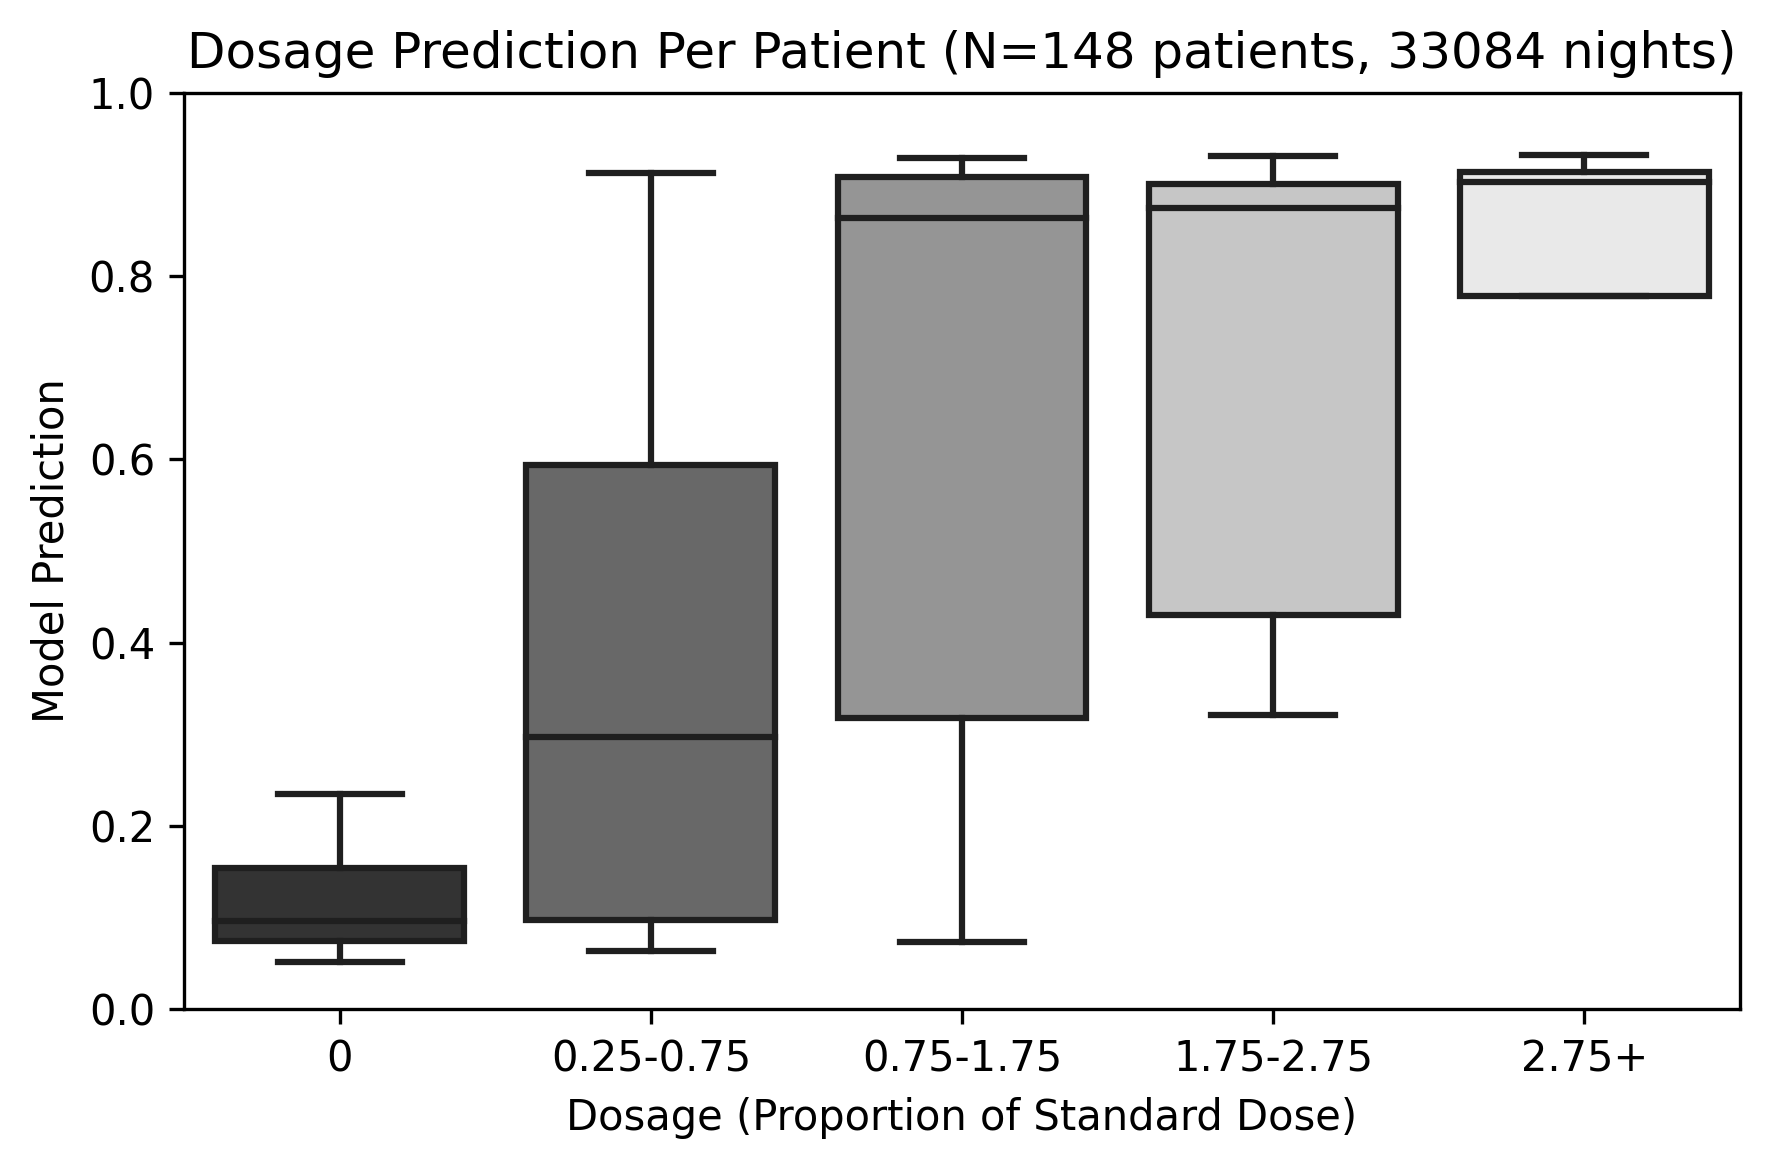
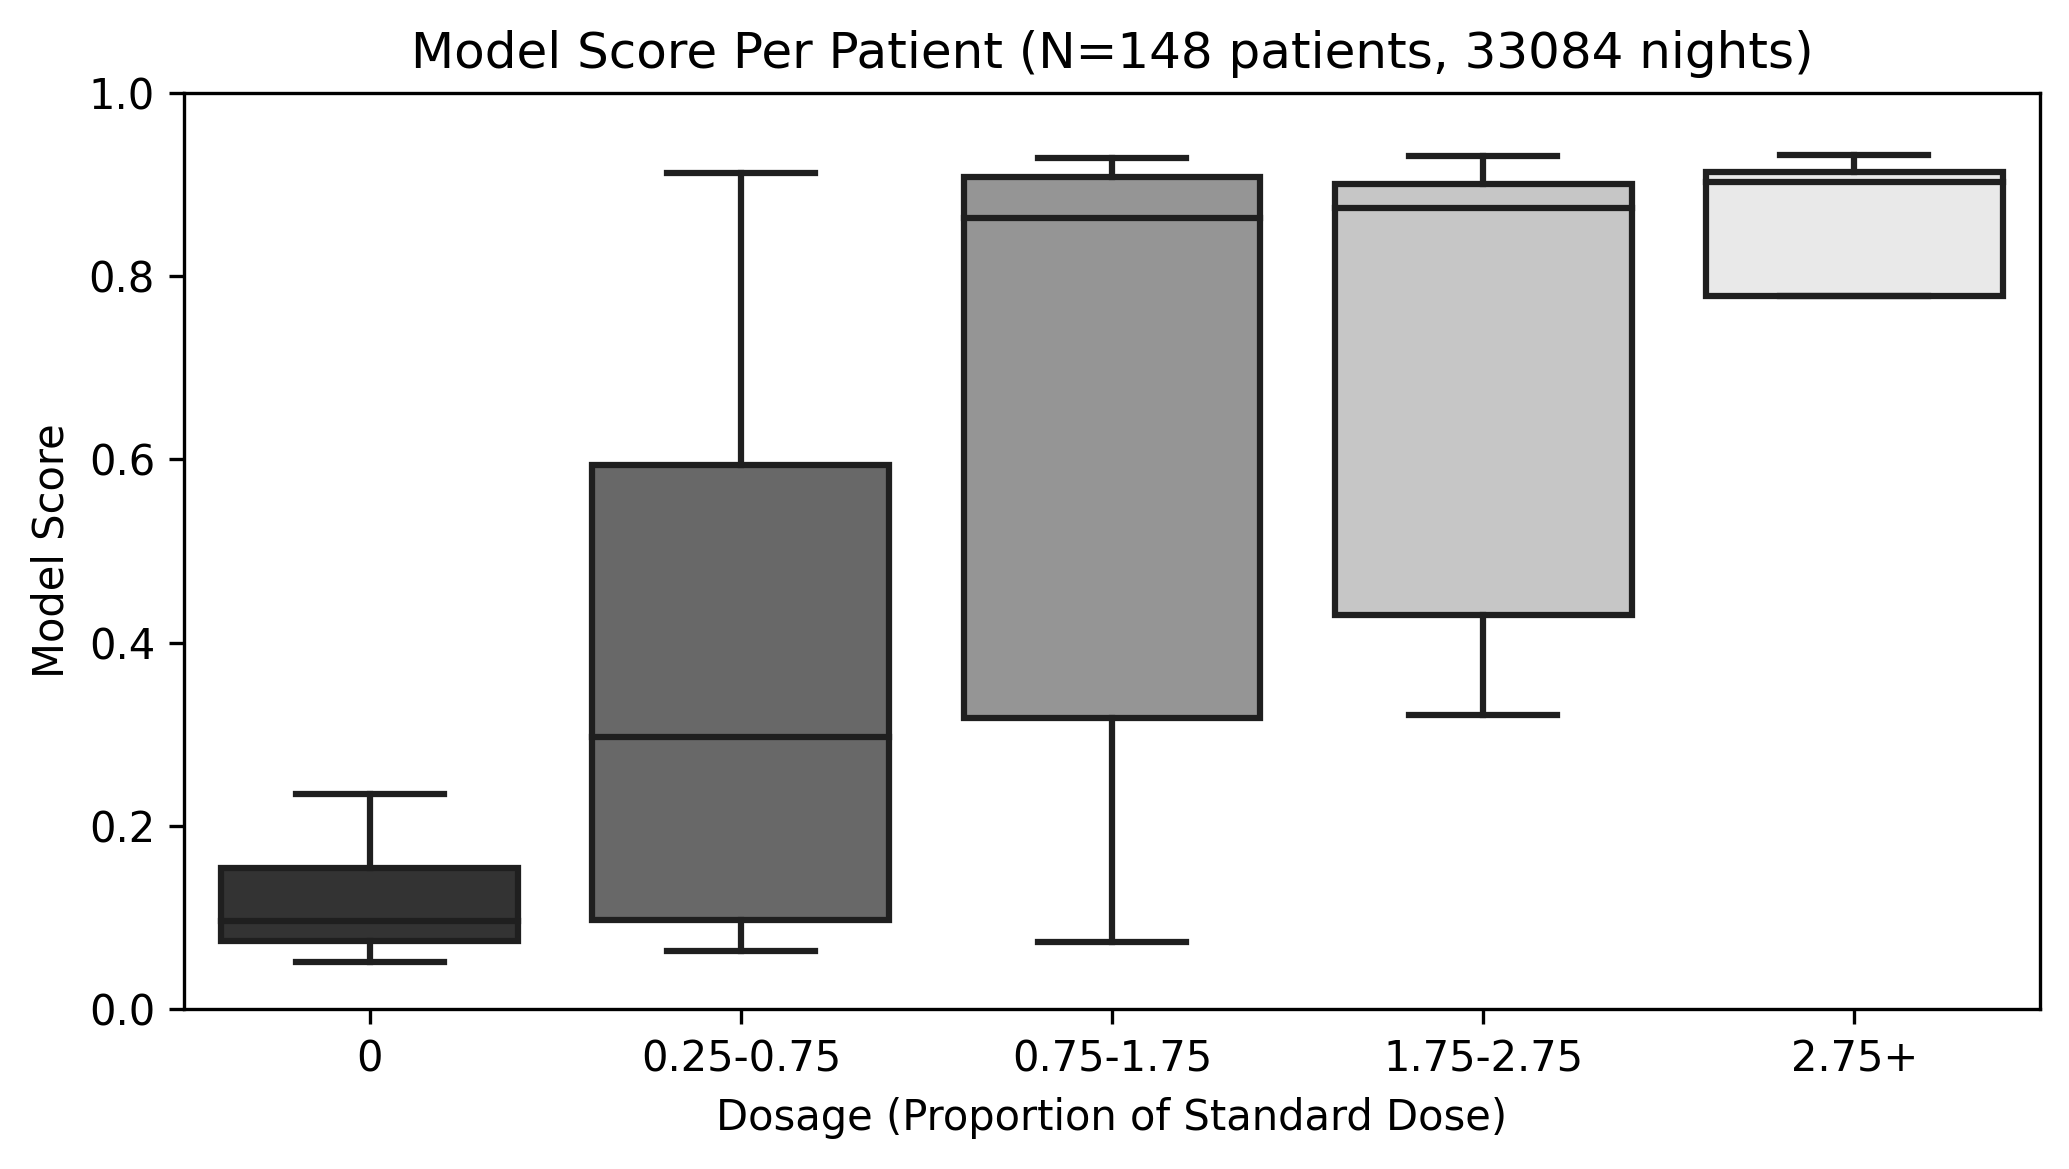
.

diff --git a/biomarker/analysis/figure_4c.py b/biomarker/analysis/figure_4c.py
@@ -101,7 +101,7 @@ def create_visualization(df_per_night, df_per_patient):
     total_patients = df_per_patient.shape[0]
     
     # Create figure
-    fig, ax = plt.subplots(1, 1, figsize=(6, 4))
+    fig, ax = plt.subplots(1, 1, figsize=(7, 4))
     
     # Create color palette
     n_categories = len(df_per_patient['Dosage (Proportion of Standard Dose)'].unique())
@@ -118,9 +118,9 @@ def create_visualization(df_per_night, df_per_patient):
     )
     
     # Set labels and title
-    ax.set_title(f'Dosage Prediction Per Patient (N={total_patients} patients, {total_nights} nights)')
+    ax.set_title(f'Model Score Per Patient (N={total_patients} patients, {total_nights} nights)')
     ax.set_ylim(0, 1)
-    ax.set_ylabel('Model Prediction')
+    ax.set_ylabel('Model Score')
     
     # Adjust layout and save
     plt.tight_layout()

diff --git a/biomarker/analysis/figure_4d.py b/biomarker/analysis/figure_4d.py
@@ -218,7 +218,7 @@ def create_visualization(groups, save_path):
     })
     
     # Create figure
-    fig, ax = plt.subplots(figsize=(8, 6))
+    fig, ax = plt.subplots(figsize=(7, 4))
     
     # Define order for consistent presentation
     order = ['No Psycho\ntropic', 'Anti-\ncholinergics', 'Hypnotics', 'Anti-\nconvulsants', 'Benzo-\ndiazepines',
@@ -266,7 +266,7 @@ def create_visualization(groups, save_path):
     
     # Customize plot
     ax.set_ylim(0, 1)
-    ax.set_ylabel('Model Prediction')
+    ax.set_ylabel('Model Score')
     ax.set_xlabel('Medication Type')
     plt.tight_layout()
     

diff --git a/biomarker/analysis/figure_4b.py b/biomarker/analysis/figure_4b.py
@@ -16,7 +16,10 @@ from ipdb import set_trace as bp
 from sklearn.metrics import roc_auc_score, f1_score, confusion_matrix
 
 # Configuration
-INFERENCE_FILE = '../../data/inference_v6emb_3920_all.csv'
+# INFERENCE_FILE = '../../data/inference_v6emb_3920_all.csv'
+# INFERENCE_FILE = '../../data/nodulox_inference_v6emb_3920_all.csv'
+INFERENCE_FILE = '../../data/inference_v6emb_3920_all_novenlafaxine.csv'
+
 TAXONOMY_FILE = '../../data/antidep_taxonomy_all_datasets_v6.csv'
 
 # Analysis configuration

diff --git a/biomarker/analysis/figure_4a.py b/biomarker/analysis/figure_4a.py
@@ -31,6 +31,7 @@ def load_and_prepare_data():
     # Load datasets
     df = pd.read_csv(os.path.join(CSV_DIR,'df_baseline.csv'))
     df_eeg = pd.read_csv(os.path.join(CSV_DIR,'df_baseline_eeg.csv'))
+    # labels = pd.read_csv(os.path.join(CSV_DIR,'rebuttal_nohchsrf_inference_v6emb_3920_all.csv'))
     labels = pd.read_csv(os.path.join(CSV_DIR,'inference_v6emb_3920_all.csv'))
     df_taxonomy = pd.read_csv(os.path.join(CSV_DIR,'antidep_taxonomy_all_datasets_v6.csv'))
     

diff --git a/biomarker/analysis/figure_5.py b/biomarker/analysis/figure_5.py
@@ -159,7 +159,7 @@ def create_patient_trajectory_plot(cohorts, titles, save_path):
     
     # Add overall figure labels
     fig.supxlabel('Date (Point=Night, Tick=Month)', y=0.05, fontsize=12)
-    fig.supylabel('Model Prediction', x=0.09, fontsize=12)
+    fig.supylabel('Model Score', x=0.09, fontsize=12)
     
     # Adjust layout and save
     plt.tight_layout()
